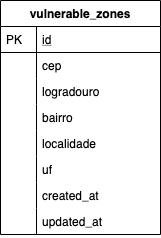
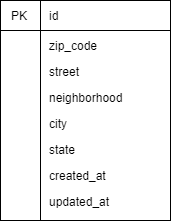
Update readme (#30)
* Update db schema image

* Update README file

Changed region(s): [[0.0, 0.0, 1.0, 1.0]]

diff --git a/README.md b/README.md
@@ -27,9 +27,9 @@ On the first run, it will create your test DB.
 
 ### DB structure
 
-This project's db has one table only called `vulnerable_zones`. This table is where we store data related to vulnerable zones (floods and other natural disasters).
+This project's db has one table only called `locations`. This table is where we store data related to added locations.
 
-The idea here is that we only store information about the vulnerable places in a way that we can retrieve it with ease. This is our schema
+The idea here is that we only store information about the locations in a way that we can retrieve it with ease. This is our schema
 
 ![Alt text](/docs/images/db-schema.png?raw=true "Title")
 
@@ -42,7 +42,7 @@ To list all zip codes, you need to send a `GET` request to `/zip_codes`.
 To create a new zip code in the db, you need to send a `POST` request to `/zip_codes` containing a payload like this:
 ```
 {
-	"cep": "03462120"
+	"zip_code": "03462120"
 }
 ```
 The cep must be formatted this exact way, using only numbers.
@@ -50,7 +50,7 @@ The cep must be formatted this exact way, using only numbers.
 To delete a zip code from the db, you need to send a `DELETE` request to `/zip_codes` containing a payload like this:
 ```
 {
-	"cep": "03462120"
+	"zip_code": "03462120"
 }
 ```
-The cep must be formatted this exact way, using only numbers.
+The zip_code must be formatted this exact way, using only numbers.
